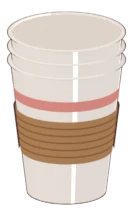
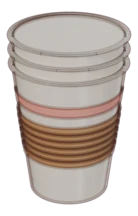
Bench objects re-rendered in Blender style B with a perspective eye-height camera; machine top/side faces; milk fridge built under the counter, bin on the floor; reference screenshots (not pushed)

diff --git a/css/bar.css b/css/bar.css
@@ -370,3 +370,17 @@ img.hotwater { position: absolute; left: 2px; top: -40px; width: auto; height: 3
 }
 .machine, .grinder-body, .fridge { box-shadow: none; }
 .cam .counter { --far: 14px; }
+
+/* ---- depth: the machines are solid objects with a top and a side, not pictures stuck on the bar ---- */
+.machine::before, .machine::after, .grinder-body::before { content: ""; position: absolute; pointer-events: none; }
+.machine::before { left: 0; right: -10px; top: -11px; height: 12px; background: linear-gradient(90deg, #fbfdfd, #d3dbdf 55%, #a9b4ba); clip-path: polygon(0 100%, 10px 0, 100% 0, calc(100% - 10px) 100%); }
+.machine::after { left: 100%; width: 10px; top: -11px; height: calc(100% + 11px); background: linear-gradient(90deg, #8d989f, #4f5a61); clip-path: polygon(0 11px, 100% 0, 100% calc(100% - 11px), 0 100%); }
+.grinder-body::before { left: 0; right: -8px; top: -9px; height: 10px; background: linear-gradient(90deg, #6a4a45, #3a2523); clip-path: polygon(0 100%, 8px 0, 100% 0, calc(100% - 8px) 100%); }
+.barmat::before { height: 22px; left: 0; right: -6%; }
+
+/* ---- under the counter: the milk fridge is built into the front, under a marble lip, and the bin stands on the floor ---- */
+.z-milk > .fridge { margin: 4px -4px -6px; box-shadow: 0 0 0 5px #5a341f, inset 0 0 0 2px rgba(0,0,0,.25); border-radius: 4px; }
+.z-milk > .fridge::before { display: none; }
+.z-milk > .fridge::after { content: ""; position: absolute; left: -9px; right: -9px; top: -15px; height: 10px; border-radius: 3px;
+  background: linear-gradient(#fbf8f2, #d9cfbf); box-shadow: 0 3px 4px rgba(40,25,15,.45); pointer-events: none; }
+.z-trash { align-self: end; margin-bottom: -10px; }

diff --git a/sw.js b/sw.js
@@ -1,11 +1,11 @@
-/* Service worker (issue #27): once the game has been opened it also plays offline, on an iPhone from the home screen
+/* Service worker (issue #27): once the game has been opened it also plays offline, on an iPhone from the home screen
    too. The page itself is fetched from the network first (so a new version shows up at once) and from the cache when
    offline; everything else comes from the cache and is fetched only the first time. Bump VERSION with every release
    (together with the ?v= on the links in index.html): the old cache is then dropped. */
-const VERSION = 'cafe-cb-48';
+const VERSION = 'cafe-cb-50';
 const CORE = [
   './', 'index.html', 'manifest.webmanifest', 'style.css?v=41',
-  'css/scene.css?v=41', 'css/fx.css?v=41', 'css/views.css?v=41', 'css/bar.css?v=45', 'css/theme.css?v=41', 'css/helper.css?v=41', 'css/stage.css?v=42', 'css/intro.css?v=41',
+  'css/scene.css?v=41', 'css/fx.css?v=41', 'css/views.css?v=41', 'css/bar.css?v=46', 'css/theme.css?v=41', 'css/helper.css?v=41', 'css/stage.css?v=43', 'css/intro.css?v=41',
   'js/intro.js?v=41', 'js/util.js?v=41', 'js/economy.js?v=41', 'js/i18n.js?v=41', 'js/audio.js?v=41', 'js/recipe.js?v=41', 'js/render.js?v=41', 'js/scene.js?v=41', 'js/fx.js?v=41',
   'js/station.js?v=41', 'js/camera.js?v=41', 'js/helper.js?v=41', 'js/tutorial.js?v=41', 'js/main.js?v=41',
   'assets/favicon-64.png', 'assets/icon-192.png', 'assets/icon-512.png', 'assets/icon-512-any.png', 'assets/apple-touch-icon.png',

diff --git a/css/stage.css b/css/stage.css
@@ -93,7 +93,7 @@ body *, body *::before, body *::after { -webkit-user-select: none; user-select: 
 .z-machine > .shotlist { grid-area: shots; }
 
 /* milk: the fridge on top, the pitcher and its thermometer side by side under it */
-.z-milk { grid-template-columns: auto minmax(0, 1fr); grid-template-areas: "h h" "fridge fridge" "pitcher ctl"; align-items: start; }
+.z-milk { grid-template-columns: auto minmax(0, 1fr); grid-template-areas: "h h" "pitcher ctl" "fridge fridge"; align-items: start; align-self: end; }
 .z-milk > h3 { grid-area: h; }
 .z-milk > .fridge { grid-area: fridge; }
 .z-milk > .slot { grid-area: pitcher; min-width: 96px; }
@@ -180,7 +180,7 @@ body *, body *::before, body *::after { -webkit-user-select: none; user-select: 
 .cam .scene .talk { margin-left: max(150px, 30%); }
 .cam #sceneTicket { flex-basis: 300px; }
 .cam .say { font-size: 24px; }
-.cam .z-milk { grid-template-columns: 226px 160px; grid-template-areas: "h h" "fridge pitcher" "fridge ctl"; }
+.cam .z-milk { grid-template-columns: 226px 160px; align-self: end; grid-template-areas: "h h" "pitcher ctl" "fridge fridge"; }
 /* the keys and buttons on the shrunk machines are under a third of their size on a phone: bigger there (a tap that
    just misses one still counts, see nearKey() in js/station.js) */
 .cam .mach-panel, .cam .mach-head { grid-template-columns: 1fr 200px; }

diff --git a/index.html b/index.html
@@ -21,10 +21,10 @@
 <link rel="stylesheet" href="css/scene.css?v=41">
 <link rel="stylesheet" href="css/fx.css?v=41">
 <link rel="stylesheet" href="css/views.css?v=41">
-<link rel="stylesheet" href="css/bar.css?v=45">
+<link rel="stylesheet" href="css/bar.css?v=46">
 <link rel="stylesheet" href="css/theme.css?v=41">
 <link rel="stylesheet" href="css/helper.css?v=41">
-<link rel="stylesheet" href="css/stage.css?v=42">
+<link rel="stylesheet" href="css/stage.css?v=43">
 <link rel="stylesheet" href="css/intro.css?v=41">
 </head>
 <body>

diff --git a/tools/blender/models_b.py b/tools/blender/models_b.py
@@ -1,0 +1,118 @@
+"""CAFE C&B: the bench objects (cups, portafilter, pitcher, bottles, hopper, bin...) in style B with a real camera.
+
+models.py builds the same objects with toon shading and an orthographic camera, which made them look like flat stickers
+next to the café's Cycles renders. This script runs the same model jobs but:
+  - every toon() material becomes a real material (steel, chrome, glass, ceramic...) from style_b.py, in Cycles,
+    with the soft studio light, a contact shadow and the thin ink line;
+  - the camera is a perspective one at barista eye height (a long lens, so the verticals only lean a little), turned a few
+    degrees so a side face shows next to the top, like the machine bodies of cafe.py.
+Customers, the stool and the tip jar keep their toon look (they are layered sprites for the customer view).
+
+    blender -b -P tools/blender/models_b.py -- assets/models [only1,only2] [res]
+"""
+import bpy, math, os, sys
+from mathutils import Vector
+from bpy_extras.object_utils import world_to_camera_view
+
+sys.path.insert(0, os.path.dirname(os.path.abspath(__file__)))
+import models as M  # noqa: E402
+import style_b as SB  # noqa: E402
+
+SKIP = ('cust-', 'stool', 'tipjar', 'gauge')
+EXTRA_TILT = 6.0    # looks down a little more than models.py did
+YAW = -11.0         # a few degrees to the right: the right-hand face shows next to the top
+LENS = 70.0         # mm on a 36 mm sensor, mild perspective
+
+_mats = {}
+
+
+def toon_b(name, hexcol, kind='toon', alpha=1.0, edge=0.6, lo=None):
+    key = (name, hexcol, kind, alpha)
+    if key in _mats:
+        return _mats[key]
+    if kind == 'glass' or alpha < 1:
+        m = SB.pbr(name + 'g', hexcol, rough=0.06, trans=1.0)
+        m.use_nodes = True
+        m.node_tree.nodes['Principled BSDF'].inputs['Alpha'].default_value = max(0.35, alpha)
+    elif kind == 'metal':
+        m = SB.pbr(name, hexcol, metal=1, rough=0.26, aniso=0.5)
+    elif kind == 'gloss':
+        m = SB.pbr(name, hexcol, rough=0.28, coat=0.7)
+    elif kind == 'flat':
+        m = SB.pbr(name, hexcol, rough=0.7)
+    else:
+        m = SB.pbr(name, hexcol, rough=0.5)
+    _mats[key] = m
+    return m
+
+
+_finish = M.finish
+_reset = M.reset
+
+
+def finish_b(o, mat, outline=0.16, **kw):
+    # the inverted-hull outline does not work in Cycles; style_b draws a Freestyle line instead
+    return _finish(o, mat, outline=0, **kw)
+
+
+def reset_b():
+    _reset()
+    _mats.clear()
+    SB.setup(line=True)
+    sc = bpy.context.scene
+    # no shadow-catcher floor: its shadow would be cut off at the sprite's edge; the game draws the ground shadows (css/bar.css)
+    for o in list(bpy.data.objects):
+        if o.get('noframe'):
+            bpy.data.objects.remove(o)
+    sc.cycles.samples = 128
+
+
+def render_b(name, width_px, tilt=14, pad=0.07, yaw=0):
+    sc = bpy.context.scene; cam = sc.camera; cd = cam.data
+    cd.type = 'PERSP'; cd.lens = LENS; cd.sensor_width = 36; cd.sensor_fit = 'AUTO'
+    cd.shift_x = cd.shift_y = 0; cd.clip_start = 1; cd.clip_end = 3000
+    cam.rotation_euler = (math.radians(90 - (tilt + EXTRA_TILT)), 0, math.radians(yaw + YAW))
+    dg = bpy.context.evaluated_depsgraph_get()
+    pts = []
+    for o in sc.objects:
+        if o.type != 'MESH' or o.get('noframe') or o.hide_render:
+            continue
+        oe = o.evaluated_get(dg); me = oe.to_mesh()
+        pts += [oe.matrix_world @ v.co for v in me.vertices]
+        oe.to_mesh_clear()
+    lo = Vector((min(p.x for p in pts), min(p.y for p in pts), min(p.z for p in pts)))
+    hi = Vector((max(p.x for p in pts), max(p.y for p in pts), max(p.z for p in pts)))
+    centre = (lo + hi) / 2; diag = (hi - lo).length
+    view = Vector((0, 0, -1)); view.rotate(cam.rotation_euler)
+    cam.location = centre - view * diag * 3.5
+    sc.render.resolution_x = sc.render.resolution_y = 1000
+    bpy.context.view_layer.update()
+    ndc = [world_to_camera_view(sc, cam, p) for p in pts]
+    x0, x1 = min(n.x for n in ndc), max(n.x for n in ndc)
+    y0, y1 = min(n.y for n in ndc), max(n.y for n in ndc)
+    w, h = x1 - x0, y1 - y0
+    k = max(w, h) * (1 + 2 * pad)
+    cd.lens = LENS / k
+    cd.shift_x = ((x0 + x1) / 2 - 0.5) / k
+    cd.shift_y = ((y0 + y1) / 2 - 0.5) / k
+    px = width_px * M.RES
+    sc.render.resolution_x = int(px) if w >= h else max(8, int(px * w / h))
+    sc.render.resolution_y = max(8, int(px * h / w)) if w >= h else int(px)
+    sc.render.filepath = os.path.join(M.OUT, name + '.webp')
+    bpy.ops.render.render(write_still=True)
+    print('rendered', name, sc.render.resolution_x, 'x', sc.render.resolution_y)
+
+
+M.toon = toon_b
+M.finish = finish_b
+M.reset = reset_b
+M.render = render_b
+
+if __name__ == '__main__':
+    for name, fn in M.JOBS:
+        if M.ONLY and name not in M.ONLY:
+            continue
+        if name.startswith(SKIP):
+            continue
+        fn()
+    print('done ->', M.OUT)
